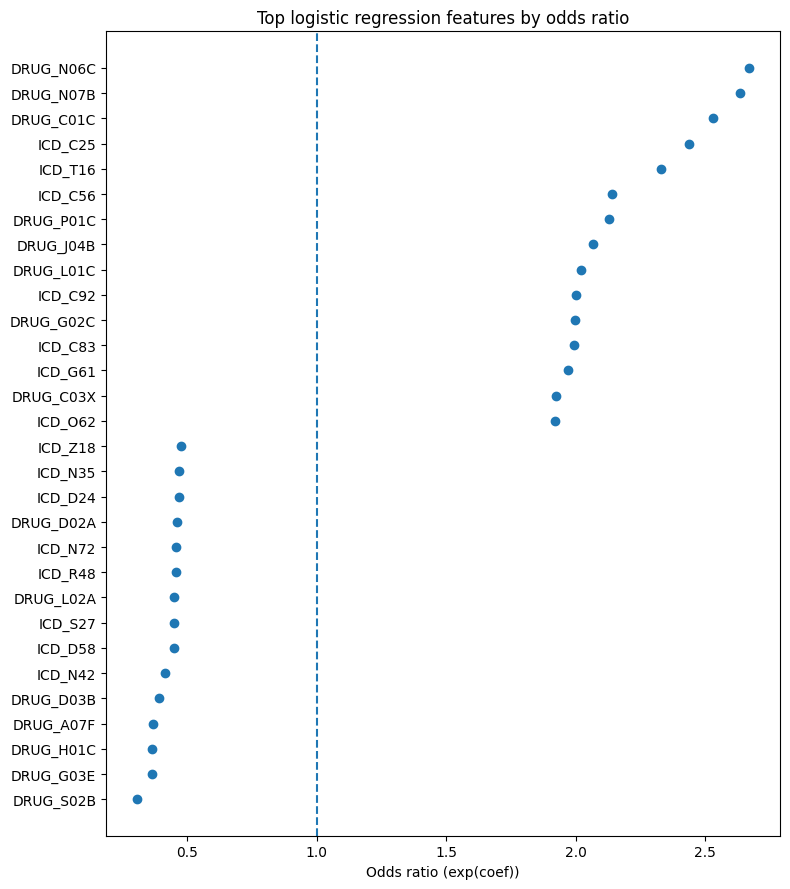
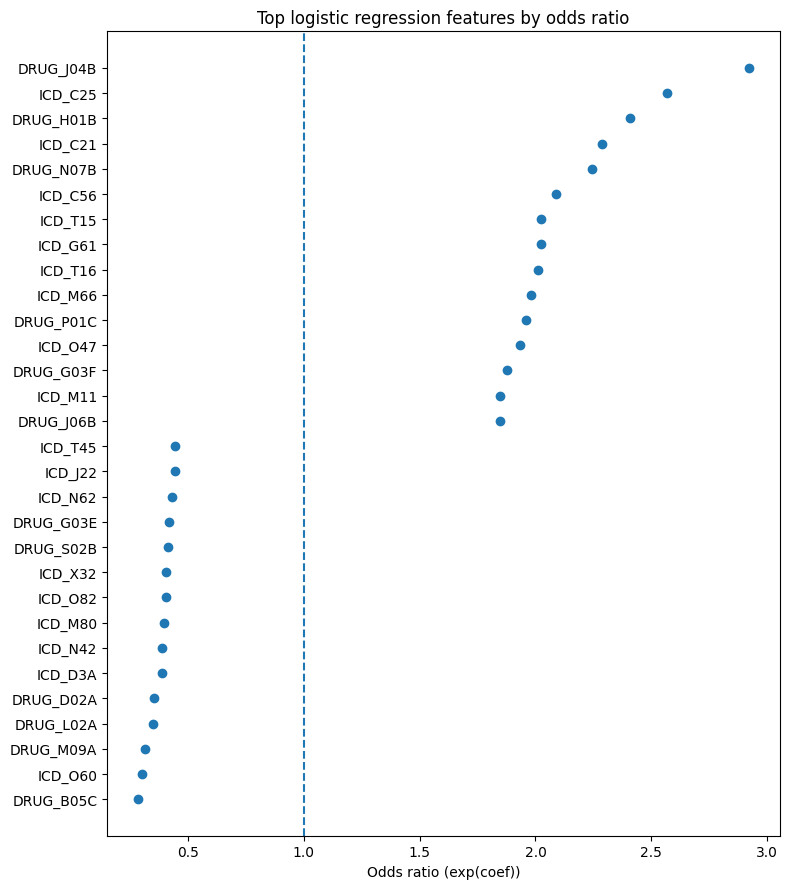
fix: repeat logreg analysis

diff --git a/src/modelling/logreg.py b/src/modelling/logreg.py
@@ -23,6 +23,7 @@ def parse_args():
 
     parser.add_argument("--title", type=str, default="LogReg AE30d model",
                         help="Description/title for this training run")
+    parser.add_argument("--suffix", type=str, default="_FINAL", help="Suffix for input files")
     parser.add_argument("--db", type=int, default=5, help="Database size (1 or 5) M")
     parser.add_argument("--bootstrap", action="store_true", help="Whether to perform bootstrap CIs for ORs")
 
@@ -36,7 +37,7 @@ BOOTSTRAP = args.bootstrap
 # ---------------------------------------------------------------------
 # 1. Paths & constants
 # ---------------------------------------------------------------------
-SUFFIX = f"_opioid_sample{args.db}M_grace15_minspell7_ae_censoring"
+SUFFIX = args.suffix
 BASE = Path("/n/scratch/users/b/bef299/polypharmacy_project_fhd8SDd3U50")
 
 demographics_path = BASE / f"demographics_opioid_sample{args.db}M.parquet"
